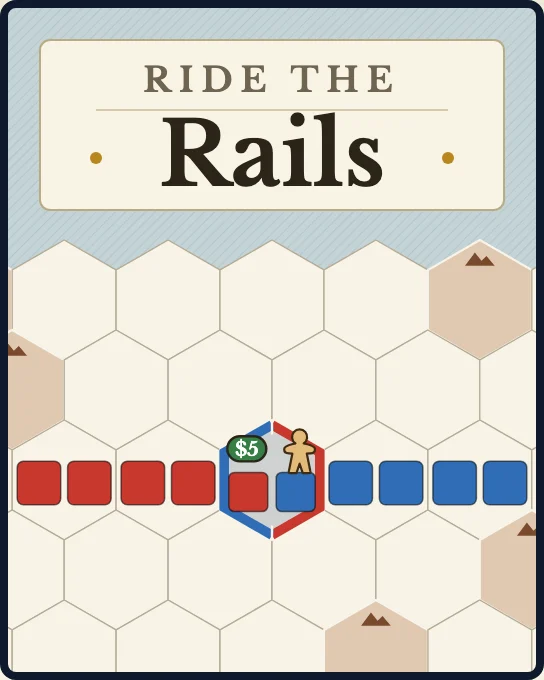
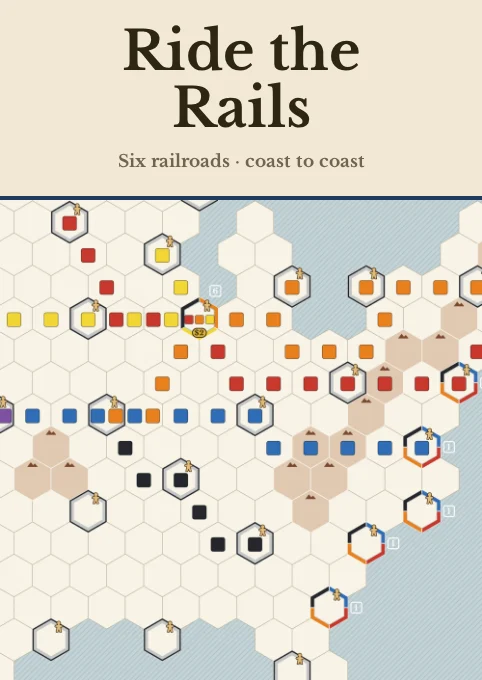
Give Ride the Rails a cover like Bohrer's other titles
482 x 680 like Preussische Ostbahn and South African Railroads: a cream
title band with "Ride the / Rails" in the board's serif and a muted line,
a navy rule, and the board itself below it. The script now photographs a
position built out of Chicago and the East from the running harness, so
the cover shows the table's own look.

diff --git a/games/ride-the-rails-ui/src/lib/images.spec.ts b/games/ride-the-rails-ui/src/lib/images.spec.ts
@@ -66,21 +66,20 @@ describe('image coverage', () => {
         ])
     })
 
-    it('draws the cover as an opaque 544 × 680 lossy WebP of at most 120 KB', () => {
+    it('draws the cover as an opaque 482 × 680 lossy WebP of at most 120 KB, as Bohrer’s other titles', () => {
         const cover = readFileSync(join(packageRoot, 'src/lib/images/cover.webp'))
         expect(cover.byteLength).toBeLessThanOrEqual(120 * 1024)
-        expect(webpImage(cover)).toEqual({ width: 544, height: 680, lossy: true, alpha: false })
+        expect(webpImage(cover)).toEqual({ width: 482, height: 680, lossy: true, alpha: false })
     })
 
     it('states beside the cover how it was made', () => {
         expect(packageFile('src/lib/images/README.md')).toContain('scripts/render-cover.mjs')
     })
 
-    it('draws the cover’s passenger as the board’s meeple, read from the board’s source', () => {
+    it('photographs the cover’s board from the table itself, in the board’s serif', () => {
         const script = packageFile('scripts/render-cover.mjs')
-        expect(script).toContain("source('src/lib/utils/cityMarks.ts')")
-        expect(script).toMatch(/d="\$\{passenger\.path\}"/)
-        expect(script).not.toMatch(/pawn/i)
+        expect(script).toMatch(/photographMap\(/)
+        expect(script).toContain("tableFont('SerifFontFamily')")
     })
 
     it.each([

diff --git a/games/ride-the-rails-ui/docs/art-plan.md b/games/ride-the-rails-ui/docs/art-plan.md
@@ -2,7 +2,7 @@
 
 Every visual, its source, and the budget it must meet. What players see and press is fixed by the UI contract (`games/ride-the-rails-ui/docs/ui-interaction-visual-contract.md`); ids are those of the logic package's data (`games/ride-the-rails/docs/rules-interpretations.md`, Ids and coordinates).
 
-**One source: drawn in code from data.** The title ships no publisher art and no supplied images. The map is drawn from the hex and city tables the logic package transcribes from the printed board (`src/data/usaMap.ts`), never from an image of the printed board. Cubes, passengers, money, markers, the round tickets, the start legend, the seat cards and the cover are SVG and CSS built from a small shape vocabulary. A railroad's piece, which the rules call a locomotive, is drawn as a flat rounded square, still called a cube. MarraCash (`games/marracash-ui`) is the model for a title drawn wholly in code, and Magna Grecia's board layers (`games/magna-grecia-ui/src/lib/components/board/`) for a hex map.
+**One source: drawn in code from data.** The title ships no publisher art and no supplied images. The map is drawn from the hex and city tables the logic package transcribes from the printed board (`src/data/usaMap.ts`), never from an image of the printed board. Cubes, passengers, money, markers, the round tickets, the start legend, and the seat cards are SVG and CSS built from a small shape vocabulary; the cover photographs that board. A railroad's piece, which the rules call a locomotive, is drawn as a flat rounded square, still called a cube. MarraCash (`games/marracash-ui`) is the model for a title drawn wholly in code, and Magna Grecia's board layers (`games/magna-grecia-ui/src/lib/components/board/`) for a hex map.
 
 ## Palette
 
@@ -205,7 +205,7 @@ The panel and the log name a seat by its name, in plain text where a seat dot al
 
 ## Cover
 
-The catalog title image is `src/lib/images/cover.webp`, read by `info.thumbnailUrl`, shown at 150 px and 340 px high: 544 × 680 (4:5), lossy WebP, at most 120 KB. Composition, in the board's flat chart look: a 45° hatched sea in the navy frame; a band of cream hexes on their warm grid with mountain patches; a grey city in its Red and Blue start band, the board's natural-wood meeple waiting and a $5 pill; lines of flat Red cubes from the west and Blue from the east meeting there; and "Ride the Rails" in the board's serif on a cream card across the top third ("RIDE THE" in tracked capitals, "Rails" large), readable at 150 px. It is rendered once from an SVG by `scripts/render-cover.mjs` in the UI package, which reads every colour from the palette `BOARD_LOOK` picks and stops on a token that palette lacks, takes the meeple's shape, edge, place and scale from `utils/cityMarks.ts`, and committed with a README beside it stating how it was made. The committed cover predates the playtest rework: it still shows the chart look's navy frame and the meeple at its earlier place and size, and the script still draws the navy frame; it has not been re-rendered for the mist look.
+The catalog title image is `src/lib/images/cover.webp`, read by `info.thumbnailUrl`, shown at 150 px and 340 px high: 482 × 680, lossy WebP, at most 120 KB, the size and layout of John Bohrer's other titles here (Preußische Ostbahn, South African Railroads). Composition: a cream title band (`#F2E8D4`) with "Ride the / Rails" in the board's bold serif and "Six railroads · coast to coast" muted under it, readable at 150 px; a 4 px navy rule; and below it the board itself, a square of the map from the Great Lakes and Saint Louis east to the Atlantic, with Red, Blue, Orange, Yellow, Black and Purple lines built out of Chicago and the East. `scripts/render-cover.mjs` in the UI package loads that position into the running dev harness, photographs the map at four times its size, sets the title in the font the table loads, and encodes the result; the README beside the cover says how to redraw it.
 
 ## Supplied assets
 

diff --git a/games/ride-the-rails-ui/src/lib/images/README.md b/games/ride-the-rails-ui/src/lib/images/README.md
@@ -1,17 +1,14 @@
 # Images
 
-`cover.webp` is the catalog title image: 544 × 680, lossy WebP, shown at 150 px and 340 px high.
-It is drawn in code, with no supplied or publisher art: `scripts/render-cover.mjs` builds an SVG
-in the board's flat chart look (a hatched sea in a navy frame, cream hexes on their warm grid with
-mountain patches, a grey city with its Red and Blue start band, the board's natural-wood passenger
-meeple, a $5 pill, and lines of flat Red and Blue cubes meeting there), colours it with the palette
-tokens of `src/app.css` for the palette `BOARD_LOOK` picks (`src/lib/utils/boardLook.ts`), and stops
-on any token that palette does not declare. The meeple's shape, edge, place and scale are read from
-`src/lib/utils/cityMarks.ts`, so the cover's passenger is the one the board draws. The title is
-set on a cream card in the board's serif, the family `src/lib/definitions/fonts.ts` names, loaded
-from the file the table loads it from. The script renders it in Playwright's Chromium and encodes
-the result as WebP.
+`cover.webp` is the catalog title image: 482 × 680, lossy WebP, shown at 150 px and 340 px high,
+in the style of John Bohrer's other titles here (Preußische Ostbahn, South African Railroads): a
+cream title band with "Ride the / Rails" in the board's bold serif and a muted line under it, a navy
+rule, and below it the board. It holds no supplied or publisher art. The board is the table's own:
+`scripts/render-cover.mjs` loads a position into the running dev harness, with railroads built out
+of Chicago and the East, and photographs that part of the map at four times its size. The title is
+set in the family `src/lib/definitions/fonts.ts` names, loaded from the file the table loads it
+from. The script composes the two in Playwright's Chromium and encodes the result as WebP.
 
-To redraw it, change the SVG in the script and run, from the repository root:
+To redraw it, start the harness (`pnpm dev` in this package), then run, from the repository root:
 
     node games/ride-the-rails-ui/scripts/render-cover.mjs
